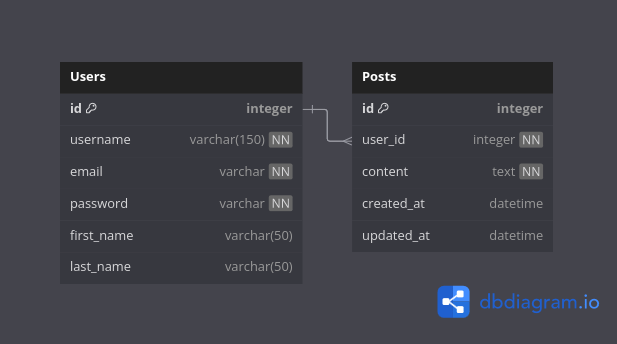
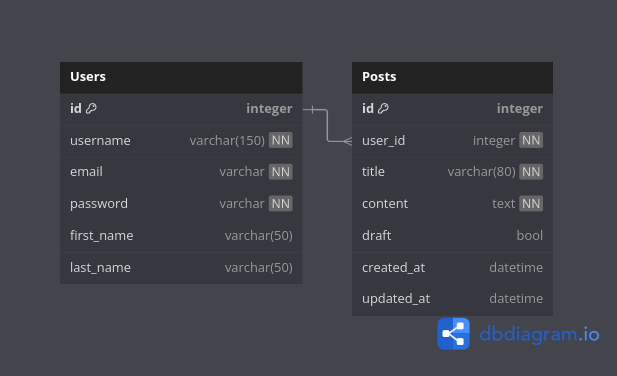
Add post model

diff --git a/blog/migrations/0001_initial.py b/blog/migrations/0001_initial.py
@@ -1,0 +1,30 @@
+# Generated by Django 5.2.1 on 2025-06-06 00:45
+
+import django.db.models.deletion
+from django.conf import settings
+from django.db import migrations, models
+
+
+class Migration(migrations.Migration):
+
+    initial = True
+
+    dependencies = [
+        migrations.swappable_dependency(settings.AUTH_USER_MODEL),
+    ]
+
+    operations = [
+        migrations.CreateModel(
+            name='Post',
+            fields=[
+                ('id', models.BigAutoField(auto_created=True, primary_key=True, serialize=False, verbose_name='ID')),
+                ('content', models.TextField()),
+                ('created_at', models.DateTimeField(auto_now_add=True)),
+                ('updated_at', models.DateTimeField(auto_now=True)),
+                ('author', models.ForeignKey(on_delete=django.db.models.deletion.CASCADE, related_name='posts', to=settings.AUTH_USER_MODEL)),
+            ],
+            options={
+                'ordering': ['-created_at'],
+            },
+        ),
+    ]

diff --git a/blog/migrations/0002_post_draft_post_title.py b/blog/migrations/0002_post_draft_post_title.py
@@ -1,0 +1,24 @@
+# Generated by Django 5.2.1 on 2025-06-06 00:56
+
+from django.db import migrations, models
+
+
+class Migration(migrations.Migration):
+
+    dependencies = [
+        ('blog', '0001_initial'),
+    ]
+
+    operations = [
+        migrations.AddField(
+            model_name='post',
+            name='draft',
+            field=models.BooleanField(default=True),
+        ),
+        migrations.AddField(
+            model_name='post',
+            name='title',
+            field=models.CharField(default='Post title', max_length=80),
+            preserve_default=False,
+        ),
+    ]

diff --git a/blog/models.py b/blog/models.py
@@ -1,0 +1,17 @@
+from django.contrib.auth.models import User
+from django.db import models
+
+
+class Post(models.Model):
+    author = models.ForeignKey(User, related_name='posts', on_delete=models.CASCADE)
+    title = models.CharField(max_length=80)
+    content = models.TextField()
+    draft = models.BooleanField(default=True)
+    created_at = models.DateTimeField(auto_now_add=True)
+    updated_at = models.DateTimeField(auto_now=True)
+
+    class Meta:
+        ordering = ['-created_at']
+
+    def __str__(self):
+        return self.content[:30]

diff --git a/blog/admin.py b/blog/admin.py
@@ -1,0 +1,8 @@
+from django.contrib import admin
+
+from .models import Post
+
+
+@admin.register(Post)
+class PostAdmin(admin.ModelAdmin):
+    list_display = ['title', 'author', 'draft', 'created_at', 'updated_at']
